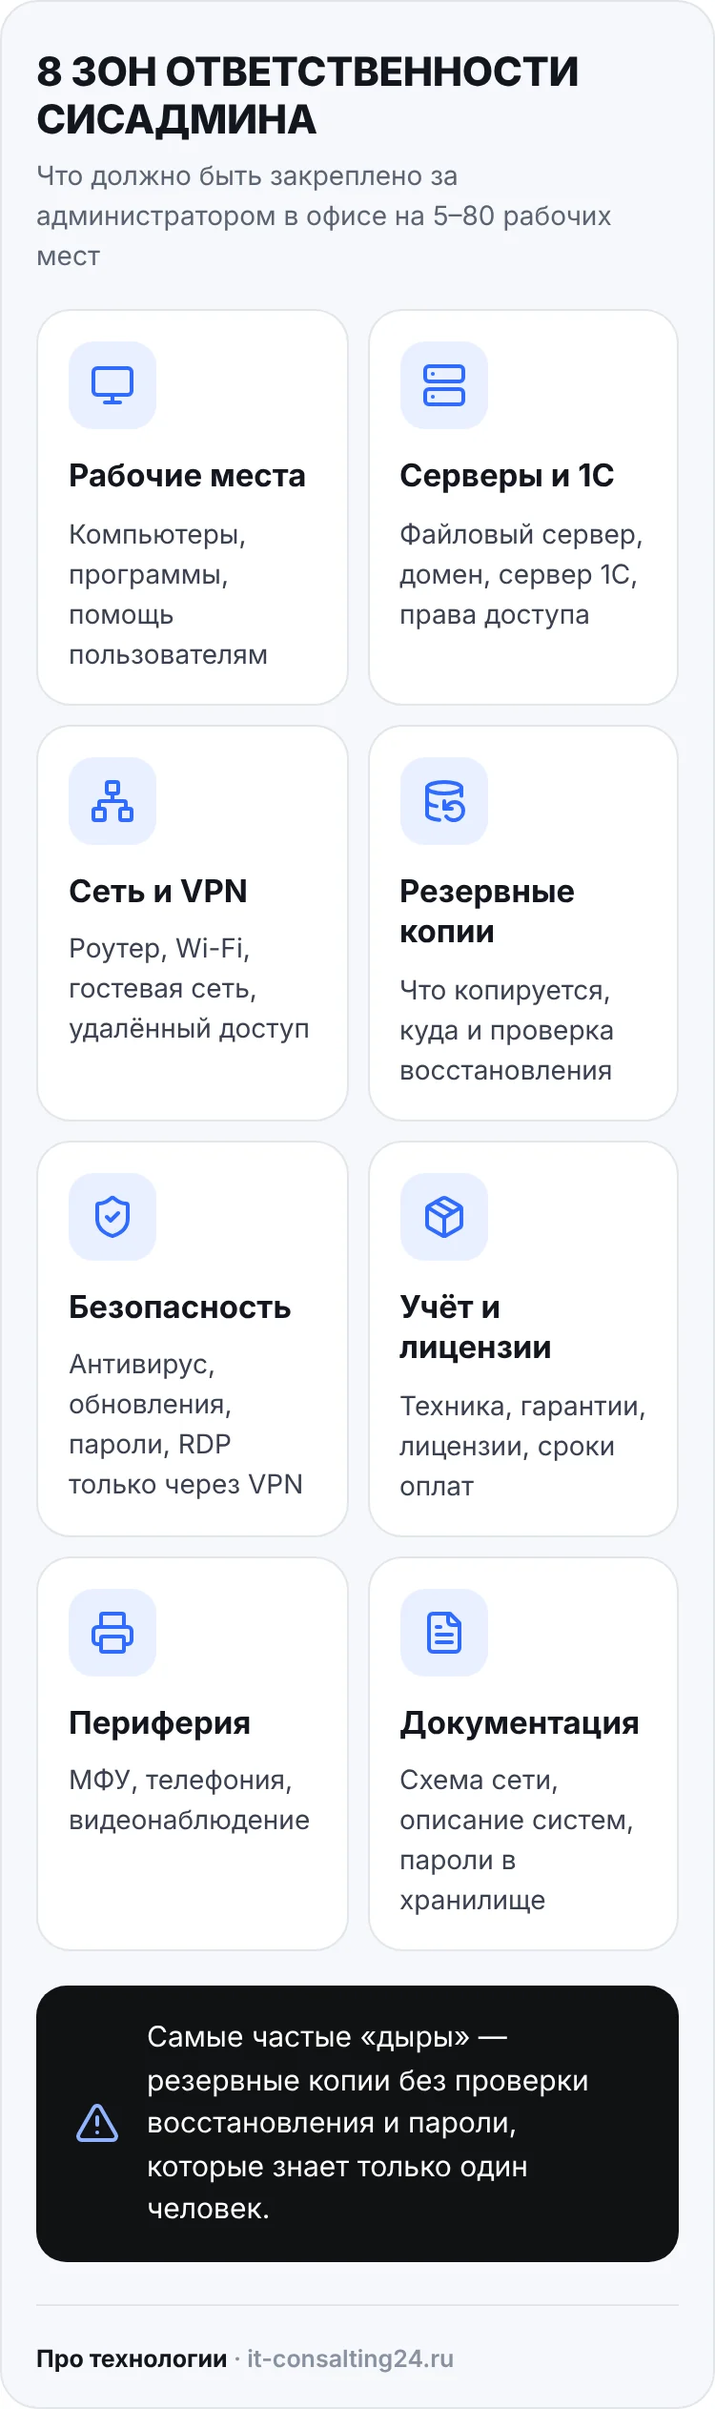
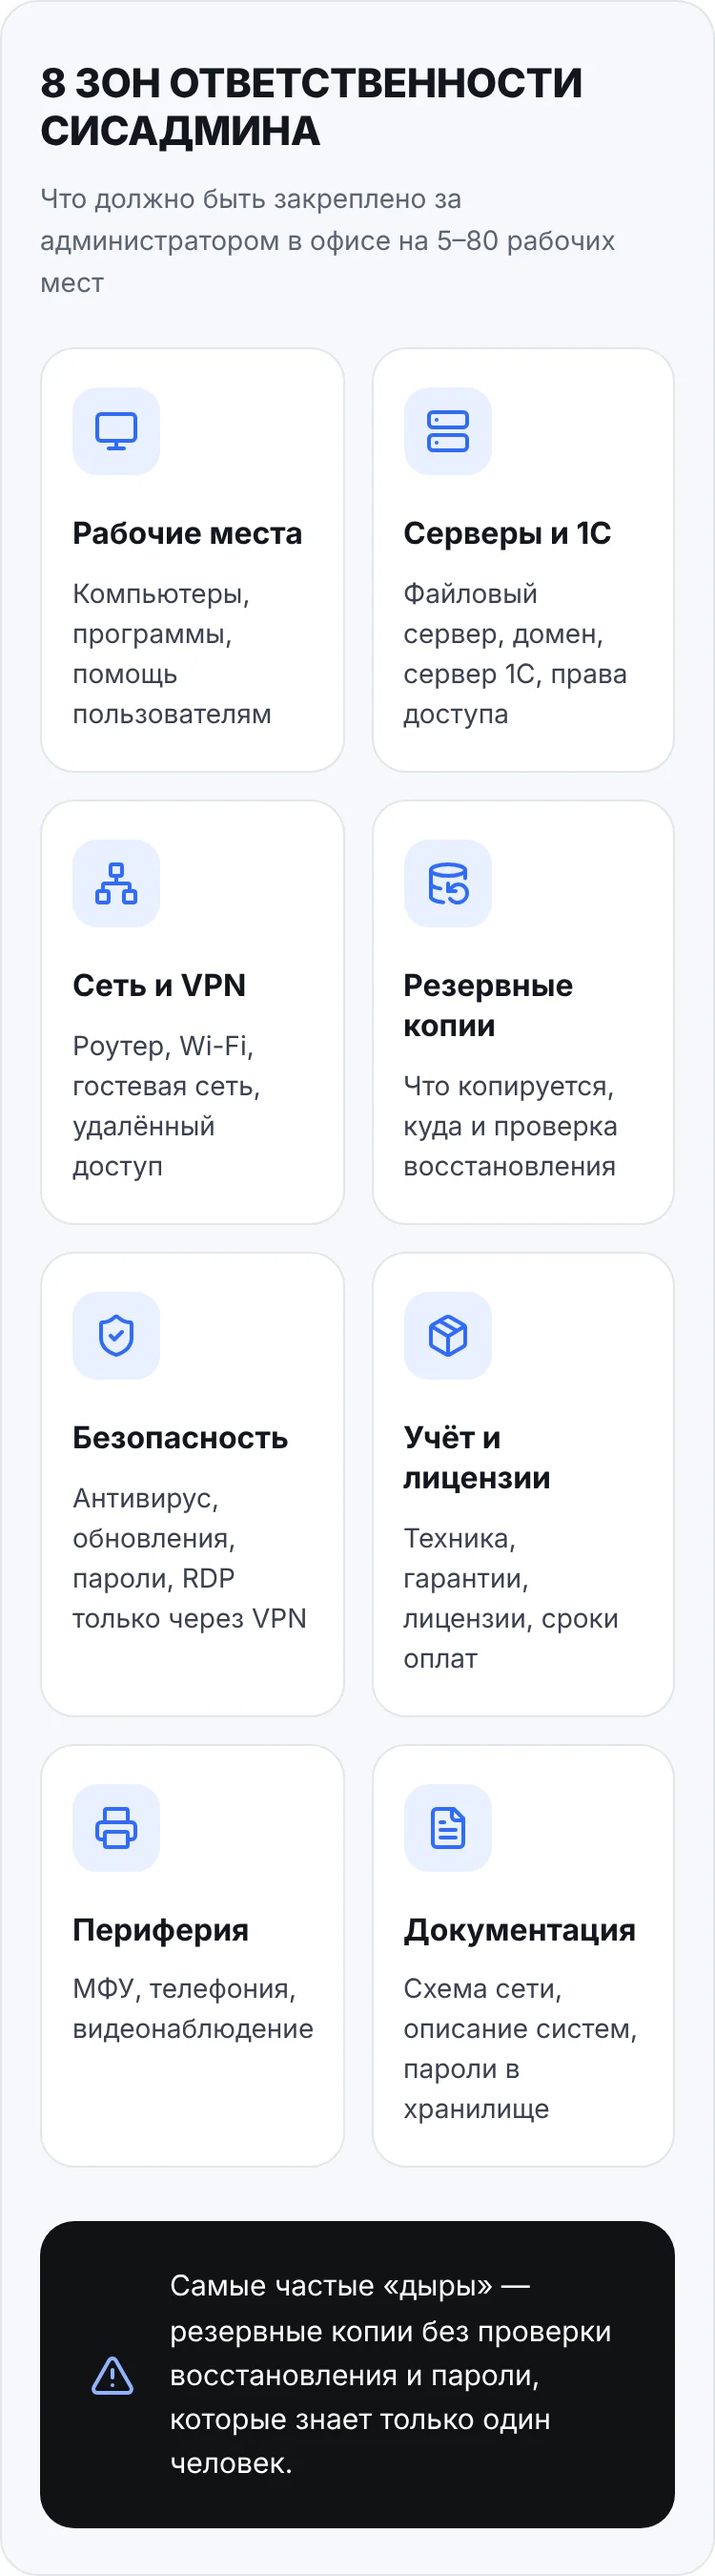
Блог: больше воздуха в инфографике про сисадмина, убрана подпись внизу

diff --git a/obyazannosti-sistemnogo-administratora.html b/obyazannosti-sistemnogo-administratora.html
@@ -321,7 +321,7 @@
 
 <h2>Основные обязанности системного администратора: полный список</h2>
 <p>Удобнее всего делить работу сисадмина на направления. В каждом есть «текущие» задачи (сделать по запросу) и «профилактические» (делать регулярно, даже если никто не просит). Именно вторые чаще всего и выпадают.</p>
-<figure class="ig"><picture><source media="(max-width:640px)" srcset="./img/blog/obyazannosti-sistemnogo-administratora-zony-m.webp" width="750" height="2526"><img src="./img/blog/obyazannosti-sistemnogo-administratora-zony.webp" width="1640" height="1486" alt="Инфографика: 8 зон ответственности системного администратора — рабочие места, серверы и 1С, сеть и VPN, резервные копии, безопасность, учёт и лицензии, периферия, документация" loading="lazy" decoding="async"></picture><figcaption>Восемь направлений, которые должны быть закреплены за сисадмином или подрядчиком</figcaption></figure>
+<figure class="ig"><picture><source media="(max-width:640px)" srcset="./img/blog/obyazannosti-sistemnogo-administratora-zony-m.webp" width="750" height="2700"><img src="./img/blog/obyazannosti-sistemnogo-administratora-zony.webp" width="1640" height="1652" alt="Инфографика: 8 зон ответственности системного администратора — рабочие места, серверы и 1С, сеть и VPN, резервные копии, безопасность, учёт и лицензии, периферия, документация" loading="lazy" decoding="async"></picture><figcaption>Восемь направлений, которые должны быть закреплены за сисадмином или подрядчиком</figcaption></figure>
 
 <h3>1. Рабочие места и пользователи</h3>
 <ul>
@@ -391,7 +391,7 @@
 <tr><td>Раз в год</td><td>План замены устаревшей техники и бюджет на следующий год; проверка, что все пароли администраторов актуальны и лежат в хранилище</td></tr>
 </table></div>
 
-<figure class="ig"><picture><source media="(max-width:640px)" srcset="./img/blog/obyazannosti-sistemnogo-administratora-reglament-m.webp" width="750" height="1764"><img src="./img/blog/obyazannosti-sistemnogo-administratora-reglament.webp" width="1640" height="898" alt="Инфографика: регламент работ системного администратора — каждый день, каждую неделю, каждый месяц, раз в квартал и раз в год" loading="lazy" decoding="async"></picture><figcaption>Регламент профилактических работ: от ежедневной проверки бэкапов до годового плана</figcaption></figure>
+<figure class="ig"><picture><source media="(max-width:640px)" srcset="./img/blog/obyazannosti-sistemnogo-administratora-reglament-m.webp" width="750" height="1822"><img src="./img/blog/obyazannosti-sistemnogo-administratora-reglament.webp" width="1640" height="928" alt="Инфографика: регламент работ системного администратора — каждый день, каждую неделю, каждый месяц, раз в квартал и раз в год" loading="lazy" decoding="async"></picture><figcaption>Регламент профилактических работ: от ежедневной проверки бэкапов до годового плана</figcaption></figure>
 <h2>Типы администраторов: кого вы на самом деле ищете</h2>
 <p>Под словом «сисадмин» часто имеют в виду разных специалистов. Полезно понимать разницу, чтобы не переплачивать и не ждать невозможного.</p>
 <ul>
